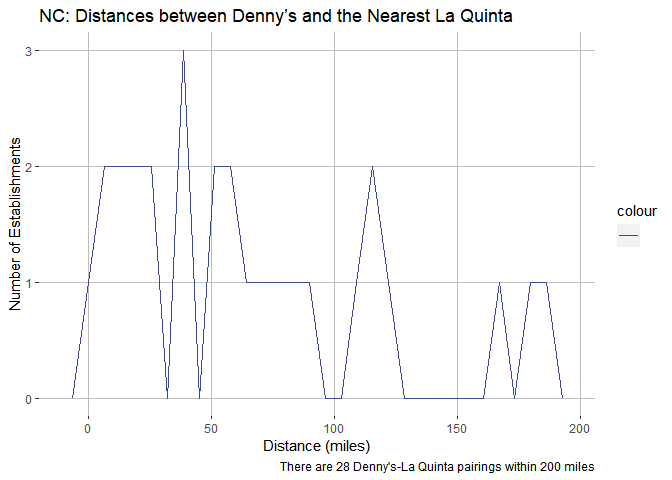
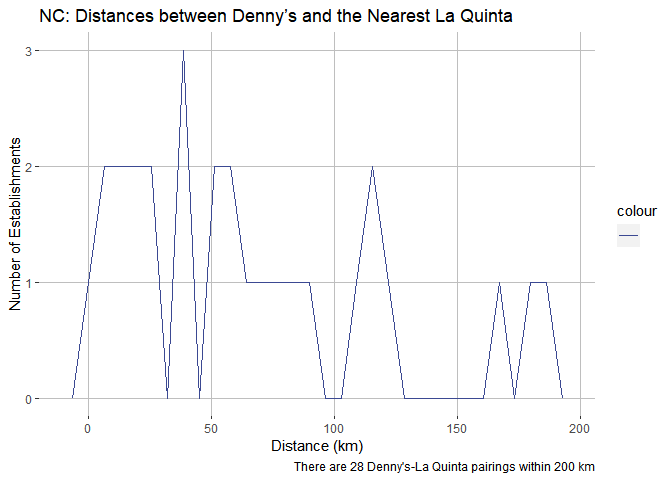
km

Changed region(s): [[0.375, 0.9062, 0.9062, 1.0]]

diff --git a/lab-05.md b/lab-05.md
@@ -134,7 +134,7 @@ dn_lq_ak_mindist <- dn_lq_ak %>%
 library(ggsci)
 
 ggplot(data = dn_lq_ak_mindist, 
-       mapping = aes(x = closest, color = " ", show.legend = FALSE)) + scale_color_aaas() + geom_freqpoly() + scale_y_continuous(breaks = c(0, 1, 2)) + scale_x_continuous(breaks = c(0, 1, 2, 3, 4, 5, 6)) + xlab("Distance (miles)") + ylab("Number of Establishments") + ggtitle("AK: Distances between Denny’s and the Nearest La Quinta") + labs(caption = "There are 3 Denny's-La Quinta pairings within 6 miles") +
+       mapping = aes(x = closest, color = " ", show.legend = FALSE)) + scale_color_aaas() + geom_freqpoly() + scale_y_continuous(breaks = c(0, 1, 2)) + scale_x_continuous(breaks = c(0, 1, 2, 3, 4, 5, 6)) + xlab("Distance (km)") + ylab("Number of Establishments") + ggtitle("AK: Distances between Denny’s and the Nearest La Quinta") + labs(caption = "There are 3 Denny's-La Quinta pairings within 6 km") +
   theme(
   panel.background = element_rect(fill = NA),
   panel.grid.major = element_line(colour = "grey"),
@@ -196,7 +196,7 @@ dn_lq_nc_mindist <- dn_lq_nc %>%
 
 
 ggplot(data = dn_lq_nc_mindist, 
-       mapping = aes(x = closest, color = " ", show.legend = FALSE)) + scale_color_aaas() + geom_freqpoly() + xlab("Distance (miles)") + ylab("Number of Establishments") + ggtitle("NC: Distances between Denny’s and the Nearest La Quinta") + labs(caption = "There are 28 Denny's-La Quinta pairings within 200 miles") +
+       mapping = aes(x = closest, color = " ", show.legend = FALSE)) + scale_color_aaas() + geom_freqpoly() + xlab("Distance (km)") + ylab("Number of Establishments") + ggtitle("NC: Distances between Denny’s and the Nearest La Quinta") + labs(caption = "There are 28 Denny's-La Quinta pairings within 200 km") +
   theme(
   panel.background = element_rect(fill = NA),
   panel.grid.major = element_line(colour = "grey"),
@@ -258,7 +258,7 @@ dn_lq_tx_mindist <- dn_lq_tx %>%
 
 
 ggplot(data = dn_lq_tx_mindist, 
-       mapping = aes(x = closest, color = " ", show.legend = FALSE)) + scale_color_aaas() + geom_freqpoly() + xlab("Distance (miles)") + ylab("Number of Establishments") + ggtitle("TX: Distances between Denny’s and the Nearest La Quinta") + labs(caption = "There are 200 Denny's-La Quinta pairings within 60 miles") +
+       mapping = aes(x = closest, color = " ", show.legend = FALSE)) + scale_color_aaas() + geom_freqpoly() + xlab("Distance (km)") + ylab("Number of Establishments") + ggtitle("TX: Distances between Denny’s and the Nearest La Quinta") + labs(caption = "There are 200 Denny's-La Quinta pairings within 60 km") +
   theme(
   panel.background = element_rect(fill = NA),
   panel.grid.major = element_line(colour = "grey"),
@@ -320,7 +320,7 @@ dn_lq_ny_mindist <- dn_lq_ny %>%
 
 
 ggplot(data = dn_lq_ny_mindist, 
-       mapping = aes(x = closest, color = " ", show.legend = FALSE)) + scale_color_aaas() + geom_freqpoly() + xlab("Distance (miles)") + ylab("Number of Establishments") + ggtitle("NY: Distances between Denny’s and the Nearest La Quinta") + labs(caption = "There are 56 Denny's-La Quinta pairings within 100 miles") +
+       mapping = aes(x = closest, color = " ", show.legend = FALSE)) + scale_color_aaas() + geom_freqpoly() + xlab("Distance (km)") + ylab("Number of Establishments") + ggtitle("NY: Distances between Denny’s and the Nearest La Quinta") + labs(caption = "There are 56 Denny's-La Quinta pairings within 100 km") +
   theme(
   panel.background = element_rect(fill = NA),
   panel.grid.major = element_line(colour = "grey"),
@@ -346,4 +346,4 @@ summary(dn_lq_ny_mindist)
 ### Exercise 12
 
 Mitch Hedberg’s joke is most likely true in Texas, given that there are
-200 pairings with in 60 miles
+200 pairings within 60 km
